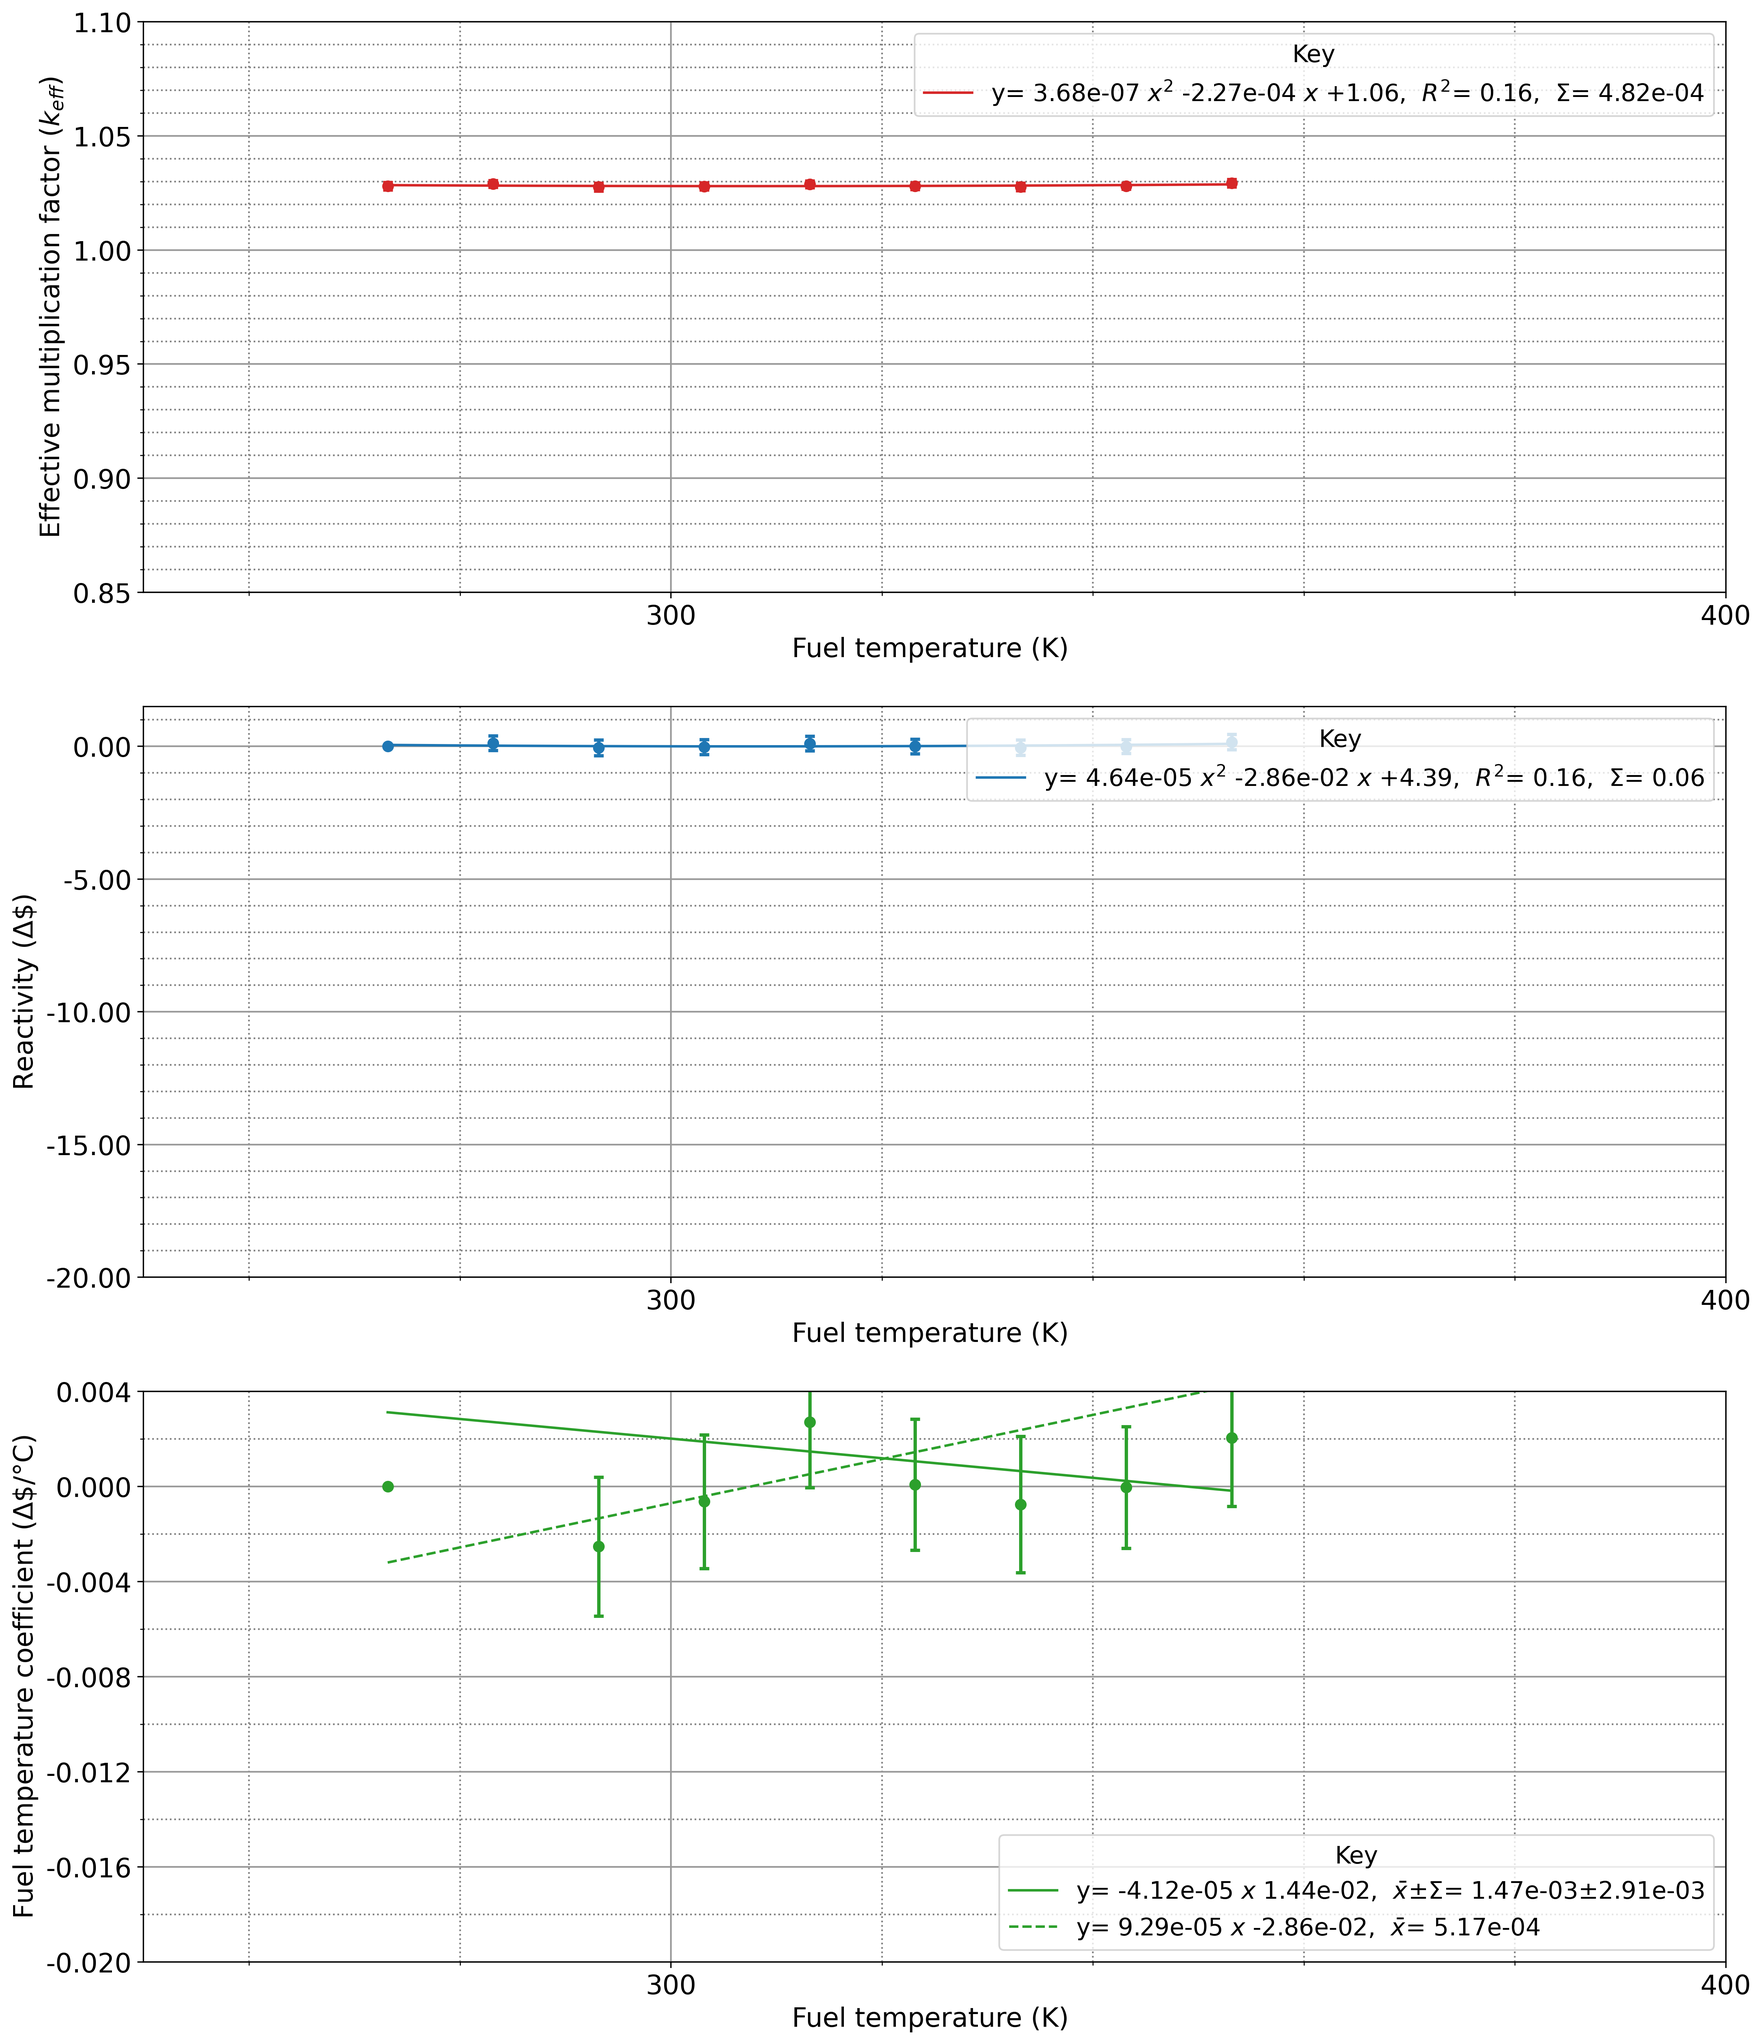
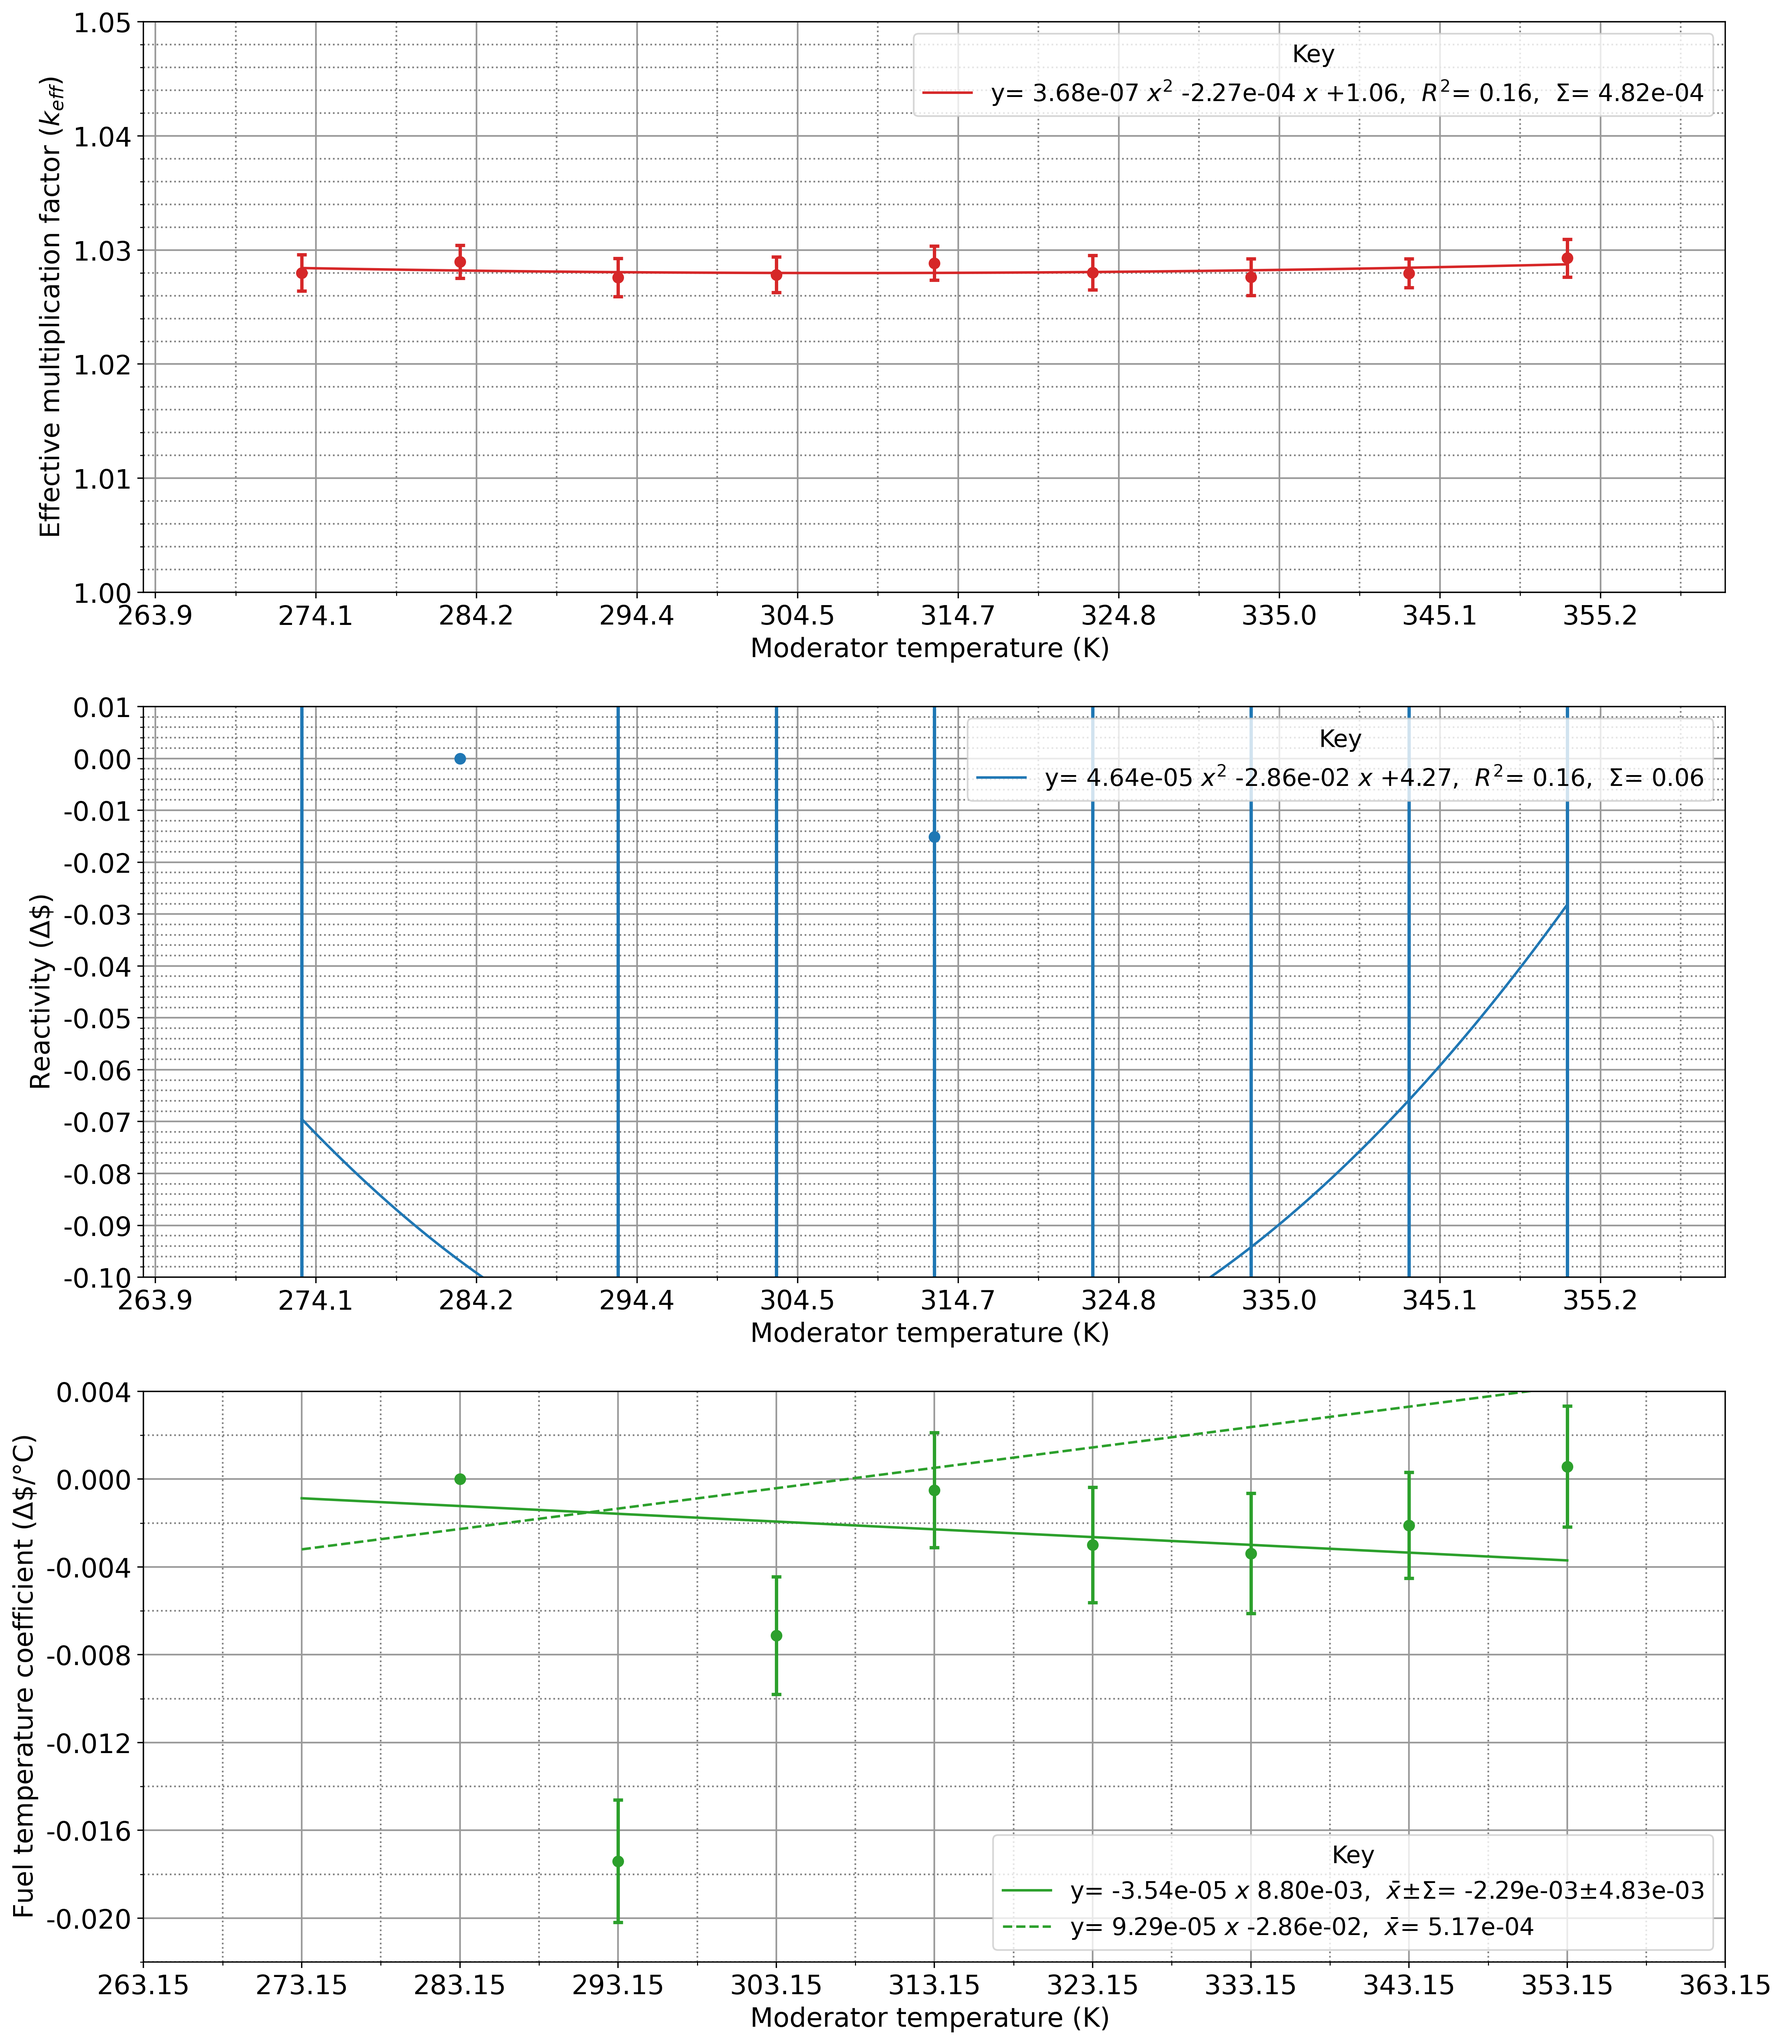
adjusted plot, added more water temps for mcnp

diff --git a/coef_mod.py b/coef_mod.py
@@ -45,7 +45,7 @@ import os, sys
 import numpy as np
 import pandas as pd
 import matplotlib.pyplot as plt
-from matplotlib.ticker import MultipleLocator, FormatStrFormatter
+from matplotlib.ticker import LinearLocator, MultipleLocator, FormatStrFormatter
 
 from mcnp_funcs import *
 
@@ -62,7 +62,7 @@ RHO_CSV_NAME = f'{MODULE_NAME}_rho.csv'
 PARAMS_CSV_NAME = f'{MODULE_NAME}_parameters.csv'
 FIGURE_NAME = f'{MODULE_NAME}_results.png'
 
-MOD_TEMPS_CELSIUS = [0, 10, 20, 30, 40, 50, 60, 70, 80]
+MOD_TEMPS_CELSIUS = [5, 10, 15, 20, 25, 30, 35, 40, 45, 50, 55, 60, 65, 70, 75, 80, 85, 90, 95]
 MOD_TEMPS = [(i + 273.15) for i in MOD_TEMPS_CELSIUS]
 
 
@@ -137,7 +137,7 @@ def main():
     print(f"\nDataframe of keff values and their uncertainties:\n{keff_df}\n")
     keff_df.to_csv(KEFF_CSV_NAME)
 
-    original_x_value = float(273.15)
+    original_x_value = float(283.15)
 
     convert_keff_to_rho_coef(original_x_value, KEFF_CSV_NAME, RHO_CSV_NAME)
     calc_params_coef(RHO_CSV_NAME, PARAMS_CSV_NAME, MODULE_NAME)
@@ -177,32 +177,33 @@ def plot_data_coef_mod(keff_csv_name, rho_csv_name, params_csv_name, figure_name
     legend_fontsize = "x-large"
     # fontsize: int or {'xx-small', 'x-small', 'small', 'medium', 'large', 'x-large', 'xx-large'}
     my_dpi = 320
-    x_label = r"Fuel temperature (K) "
+    x_label = r"Moderator temperature (K) "
     y_label_keff, y_label_rho, y_label_coef = r"Effective multiplication factor ($k_{eff}$)", \
                                               r"Reactivity ($\%\Delta k/k$)", \
-                                              r"Fuel temperature coefficient ((%$\Delta k/k$)/$\degree$C)"
+                                              r"Moderator temperature coefficient ((%$\Delta k/k$)/$\degree$C)"
     if rho_or_dollars == 'dollars':
         y_label_rho, y_label_coef = r"Reactivity ($\Delta$\$)", r"Fuel temperature coefficient ($\Delta$\$/$\degree$C)"
 
     plot_color = ["tab:red", "tab:blue", "tab:green"]
 
-    ax_x_min, ax_x_max = 250, 400
-    ax_x_major_ticks_interval, ax_x_minor_ticks_interval = 100, 20
+    ax_x_min, ax_x_max = 263.15, 363.15
+    ax_x_major_ticks_interval, ax_x_minor_ticks_interval = 10.15, 5.075
+    ax_x_major_ticks_num, ax_x_minor_ticks_num = 10+1, 2*10+1
 
-    ax_keff_y_min, ax_keff_y_max = 0.85, 1.1
-    ax_keff_y_major_ticks_interval, ax_keff_y_minor_ticks_interval = 0.05, 0.01
+    ax_keff_y_min, ax_keff_y_max = 1, 1.05
+    ax_keff_y_major_ticks_interval, ax_keff_y_minor_ticks_interval = 0.01, 0.002
 
-    ax_rho_y_min, ax_rho_y_max = -14, 2
-    ax_rho_y_major_ticks_interval, ax_rho_y_minor_ticks_interval = 2, 1
+    ax_rho_y_min, ax_rho_y_max = -0.15, 0.01
+    ax_rho_y_major_ticks_interval, ax_rho_y_minor_ticks_interval = 0.01, 100
     if rho_or_dollars == 'dollars':
-        ax_rho_y_min, ax_rho_y_max = -20, 1.5
-        ax_rho_y_major_ticks_interval, ax_rho_y_minor_ticks_interval = 5, 1
+        ax_rho_y_min, ax_rho_y_max = -0.10, 0.01
+        ax_rho_y_major_ticks_interval, ax_rho_y_minor_ticks_interval = 0.01, 0.002
 
-    ax_pntc_y_min, ax_pntc_y_max = -0.024, 0.004
-    ax_pntc_y_major_ticks_interval, ax_pntc_y_minor_ticks_interval = 0.01, 0.002
+    ax_coef_y_min, ax_coef_y_max = -0.004, 0.004
+    ax_coef_y_major_ticks_interval, ax_coef_y_minor_ticks_interval = 0.001, 0.0002
     if rho_or_dollars == 'dollars':
-        ax_pntc_y_min, ax_pntc_y_max = -0.02, 0.004
-        ax_pntc_y_major_ticks_interval, ax_pntc_y_minor_ticks_interval = 0.004, 0.002
+        ax_coef_y_min, ax_coef_y_max = -0.022, 0.004
+        ax_coef_y_major_ticks_interval, ax_coef_y_minor_ticks_interval = 0.004, 0.002
 
     fig, axs = plt.subplots(3, 1, figsize=(1636 / 96, 3 * 673 / 96), dpi=my_dpi, facecolor='w', edgecolor='k')
     ax_keff, ax_rho, ax_coef = axs[0], axs[1], axs[2]  # integral, differential worth on top, bottom, resp.
@@ -320,15 +321,18 @@ def plot_data_coef_mod(keff_csv_name, rho_csv_name, params_csv_name, figure_name
 
     # Coef worth plot settings
     ax_coef.set_xlim([ax_x_min, ax_x_max])
-    ax_coef.set_ylim([ax_pntc_y_min, ax_pntc_y_max])
-    ax_coef.xaxis.set_major_locator(MultipleLocator(ax_x_major_ticks_interval))
-    ax_coef.yaxis.set_major_locator(MultipleLocator(ax_pntc_y_major_ticks_interval))
+    ax_coef.set_ylim([ax_coef_y_min, ax_coef_y_max])
+    ax_coef.xaxis.set_major_locator(LinearLocator(ax_x_major_ticks_num))
+    # ax_coef.xaxis.set_major_locator(MultipleLocator(ax_x_major_ticks_interval))
+    ax_coef.yaxis.set_major_locator(MultipleLocator(ax_coef_y_major_ticks_interval))
     ax_coef.minorticks_on()
-    ax_coef.xaxis.set_minor_locator(MultipleLocator(ax_x_minor_ticks_interval))
-    ax_coef.yaxis.set_minor_locator(MultipleLocator(ax_pntc_y_minor_ticks_interval))
+    ax_coef.xaxis.set_minor_locator(LinearLocator(ax_x_minor_ticks_num))
+    # ax_coef.xaxis.set_minor_locator(MultipleLocator(ax_x_minor_ticks_interval))
+    ax_coef.yaxis.set_minor_locator(MultipleLocator(ax_coef_y_minor_ticks_interval))
 
     # Use for 2 decimal places after 0. for dollars units
     # Overwritten to 3 decimal places for PNTC
+    ax_coef.xaxis.set_major_formatter(FormatStrFormatter('%.2f'))
     if rho_or_dollars == "dollars": ax_coef.yaxis.set_major_formatter(FormatStrFormatter('%.3f'))
 
     ax_coef.tick_params(axis='both', which='major', labelsize=label_fontsize)

diff --git a/mcnp_funcs.py b/mcnp_funcs.py
@@ -249,6 +249,9 @@ def calc_params_coef(rho_csv_name, params_csv_name, module_name):
             if module_name == 'coef_void' or 'coef_pntc' or 'coef_mod':
                 params_df.loc[x_value, 'coef rho unc'] = params_df.loc[x_value, 'rho unc'] / 100
                 params_df.loc[x_value, 'coef dollars unc'] = params_df.loc[x_value, 'dollars unc'] / 100
+                
+        if module_name == 'coef_mod':
+            params_df.loc[x_value, 'density'] = find_water_density(x_value)
 
     for x_value in params_df.index.values.tolist():
         x = []
